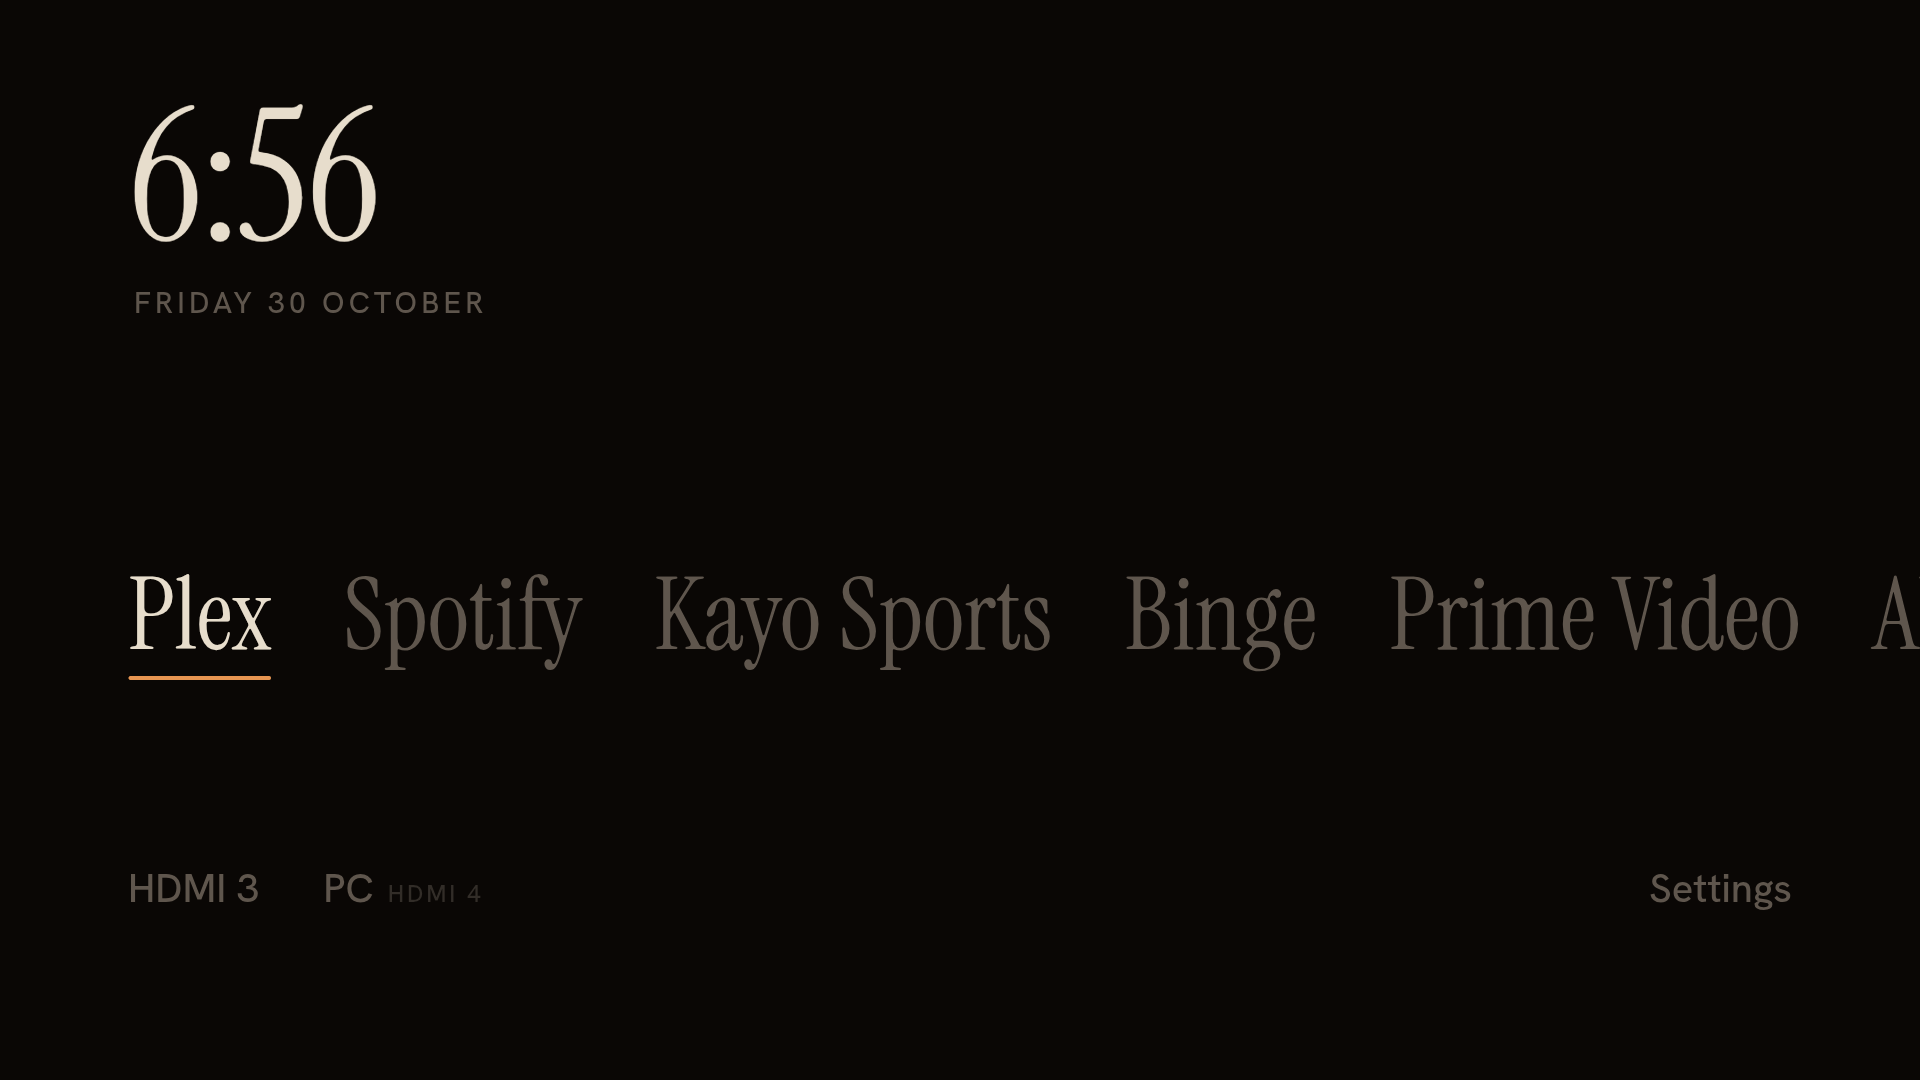
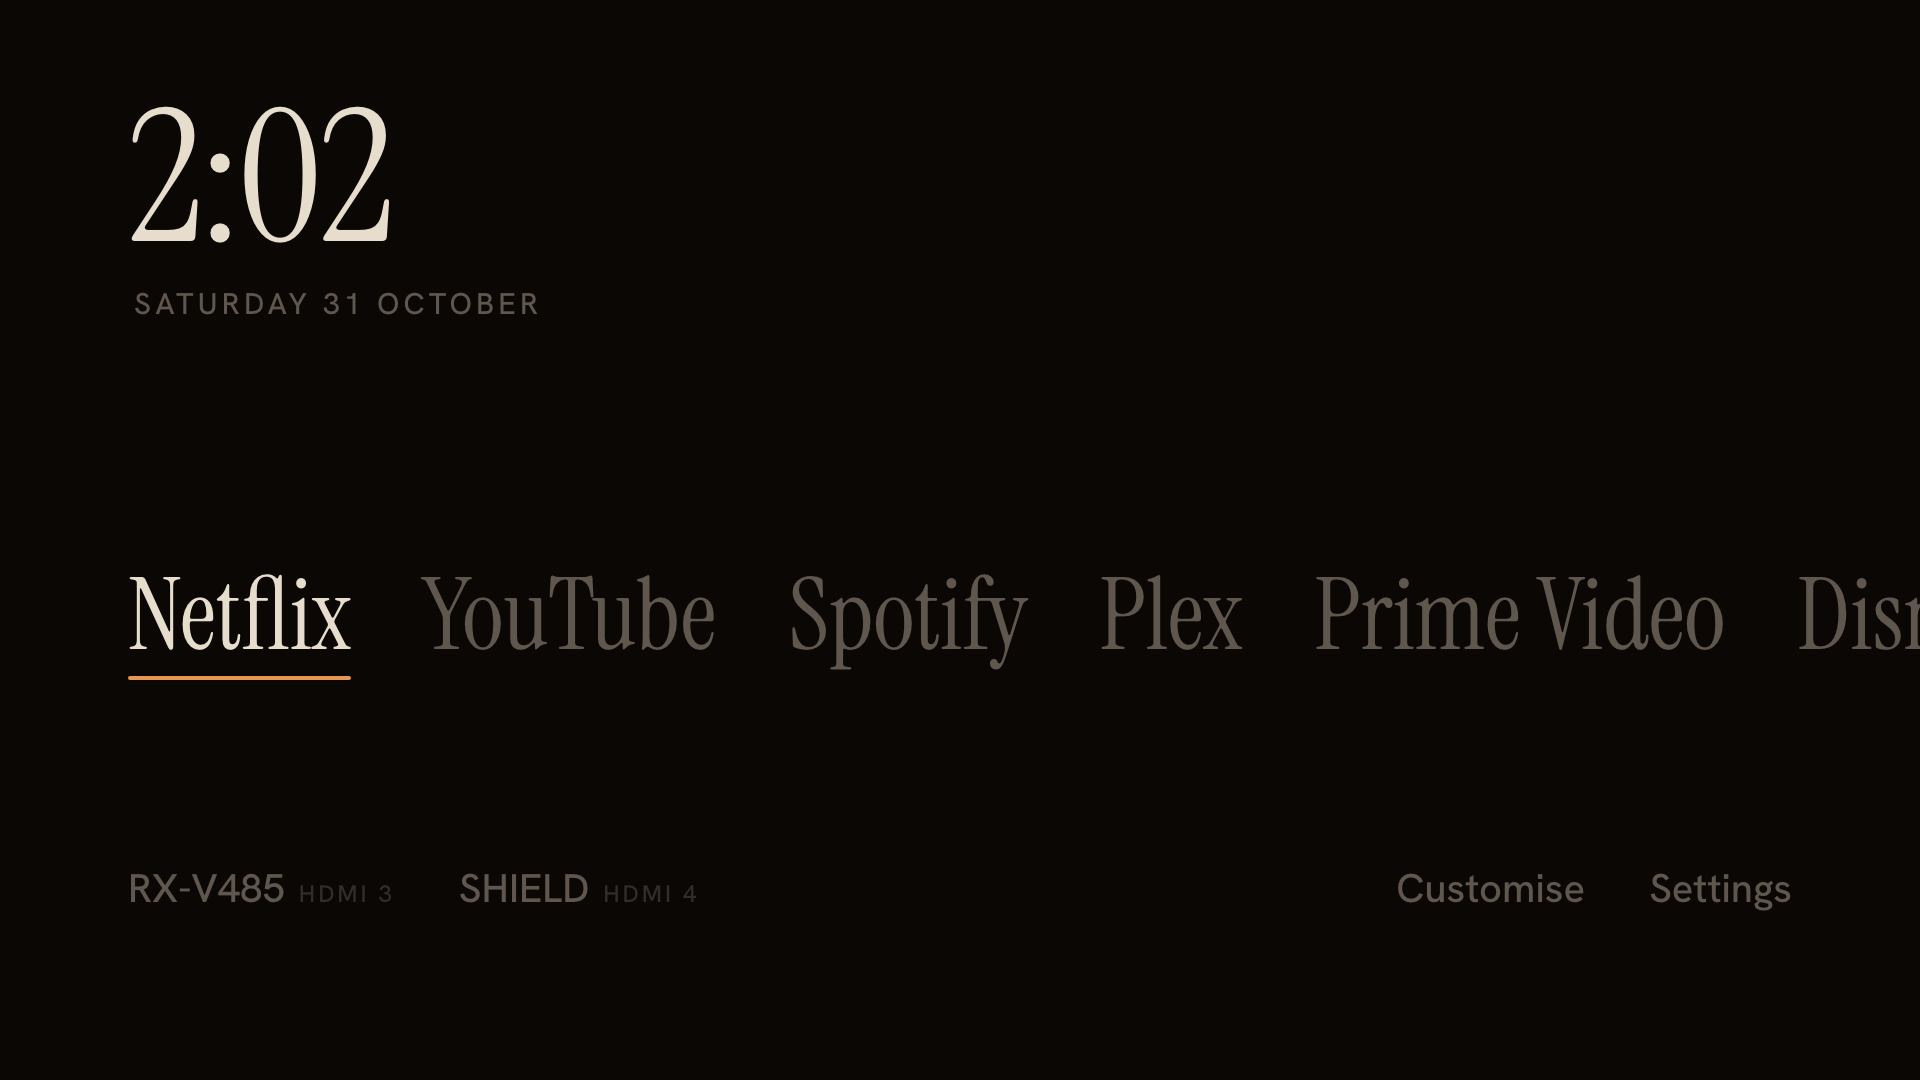
docs: refresh screenshots for 1.2.0 with a generic app row

diff --git a/docs/images/social-hero-mobile.html b/docs/images/social-hero-mobile.html
@@ -25,4 +25,4 @@ p{font-size:18px;line-height:1.5;color:var(--dim)} p b{color:var(--ink);font-wei
 <svg viewBox="0 0 16 16" fill="none" stroke="currentColor" stroke-width="1.4"><path d="M2 6.5a9 9 0 0 1 12 0M4.3 9a5.6 5.6 0 0 1 7.4 0M6.6 11.5a2.2 2.2 0 0 1 2.8 0"/></svg>
 <svg viewBox="0 0 22 12" style="width:19px" fill="none" stroke="currentColor" stroke-width="1"><rect x=".5" y=".5" width="18" height="11" rx="3"/><rect x="2.5" y="2.5" width="11" height="7" rx="1.5" fill="currentColor"/><path d="M20.5 4v4" stroke-width="1.5"/></svg>
 <span class="tv"><svg viewBox="0 0 16 16" fill="none" stroke="currentColor" stroke-width="1.4"><rect x="1.5" y="2.5" width="13" height="8.5" rx="1.5"/><path d="M5 13.5h6"/></svg></span>
-<span>Fri 30 Oct&nbsp;&nbsp;6:56 pm</span></div><div class="glow" style="left:0;top:340px;width:520px;height:340px"></div><div style="position:absolute;left:44px;right:44px;top:84px"><div class="brand"><i></i>Blacklevel</div><h1 style="font-size:64px;margin-top:14px">Take your Sony TV back.<br><em>It's just a TV.</em></h1><p style="margin-top:20px;font-size:17px;max-width:600px"><b>A quiet home screen</b> for BRAVIA Google TV, and <b>a Mac menu bar remote.</b> No ads, no accounts, no cloud.</p></div><div class="tvset" style="left:-24px;width:540px;top:370px"><div class="screen"><img src="home-apps.png"></div><div class="stand"></div></div><div class="remote" style="right:30px;width:250px;top:450px;height:430px;-webkit-mask-image:linear-gradient(#000 70%,transparent)"><img src="remote-menu.png" style=""></div></body></html>
+<span>Sat 31 Oct&nbsp;&nbsp;2:02 pm</span></div><div class="glow" style="left:0;top:340px;width:520px;height:340px"></div><div style="position:absolute;left:44px;right:44px;top:84px"><div class="brand"><i></i>Blacklevel</div><h1 style="font-size:64px;margin-top:14px">Take your Sony TV back.<br><em>It's just a TV.</em></h1><p style="margin-top:20px;font-size:17px;max-width:600px"><b>A quiet home screen</b> for BRAVIA Google TV, and <b>a Mac menu bar remote.</b> No ads, no accounts, no cloud.</p></div><div class="tvset" style="left:-24px;width:540px;top:370px"><div class="screen"><img src="home-apps.png"></div><div class="stand"></div></div><div class="remote" style="right:30px;width:250px;top:450px;height:430px;-webkit-mask-image:linear-gradient(#000 70%,transparent)"><img src="remote-menu.png" style=""></div></body></html>

diff --git a/docs/images/social-hero-story.html b/docs/images/social-hero-story.html
@@ -25,4 +25,4 @@ p{font-size:18px;line-height:1.5;color:var(--dim)} p b{color:var(--ink);font-wei
 <svg viewBox="0 0 16 16" fill="none" stroke="currentColor" stroke-width="1.4"><path d="M2 6.5a9 9 0 0 1 12 0M4.3 9a5.6 5.6 0 0 1 7.4 0M6.6 11.5a2.2 2.2 0 0 1 2.8 0"/></svg>
 <svg viewBox="0 0 22 12" style="width:19px" fill="none" stroke="currentColor" stroke-width="1"><rect x=".5" y=".5" width="18" height="11" rx="3"/><rect x="2.5" y="2.5" width="11" height="7" rx="1.5" fill="currentColor"/><path d="M20.5 4v4" stroke-width="1.5"/></svg>
 <span class="tv"><svg viewBox="0 0 16 16" fill="none" stroke="currentColor" stroke-width="1.4"><rect x="1.5" y="2.5" width="13" height="8.5" rx="1.5"/><path d="M5 13.5h6"/></svg></span>
-<span>Fri 30 Oct&nbsp;&nbsp;6:56 pm</span></div><div class="glow" style="left:0;top:560px;width:560px;height:380px"></div><div style="position:absolute;left:44px;right:44px;top:170px"><div class="brand"><i></i>Blacklevel</div><h1 style="font-size:74px;margin-top:16px">Take your Sony TV back.<br><em>It's just a TV.</em></h1><p style="margin-top:22px"><b>A quiet home screen</b> for BRAVIA Google TV, and <b>a Mac menu bar remote.</b> No ads, no accounts, no cloud.</p></div><div class="tvset" style="left:-24px;width:600px;top:600px"><div class="screen"><img src="home-apps.png"></div><div class="stand"></div></div><div class="remote" style="right:32px;width:280px;top:720px;height:450px;-webkit-mask-image:linear-gradient(#000 70%,transparent)"><img src="remote-menu.png" style=""></div></body></html>
+<span>Sat 31 Oct&nbsp;&nbsp;2:02 pm</span></div><div class="glow" style="left:0;top:560px;width:560px;height:380px"></div><div style="position:absolute;left:44px;right:44px;top:170px"><div class="brand"><i></i>Blacklevel</div><h1 style="font-size:74px;margin-top:16px">Take your Sony TV back.<br><em>It's just a TV.</em></h1><p style="margin-top:22px"><b>A quiet home screen</b> for BRAVIA Google TV, and <b>a Mac menu bar remote.</b> No ads, no accounts, no cloud.</p></div><div class="tvset" style="left:-24px;width:600px;top:600px"><div class="screen"><img src="home-apps.png"></div><div class="stand"></div></div><div class="remote" style="right:32px;width:280px;top:720px;height:450px;-webkit-mask-image:linear-gradient(#000 70%,transparent)"><img src="remote-menu.png" style=""></div></body></html>

diff --git a/docs/images/social-hero.html b/docs/images/social-hero.html
@@ -35,7 +35,7 @@ h1 em{font-style:normal;color:var(--dim)}
   <svg class="ico" viewBox="0 0 16 16" fill="none" stroke="currentColor" stroke-width="1.4"><path d="M2 6.5a9 9 0 0 1 12 0M4.3 9a5.6 5.6 0 0 1 7.4 0M6.6 11.5a2.2 2.2 0 0 1 2.8 0"/></svg>
   <svg class="ico" viewBox="0 0 22 12" style="width:24px" fill="none" stroke="currentColor" stroke-width="1"><rect x=".5" y=".5" width="18" height="11" rx="3"/><rect x="2.5" y="2.5" width="11" height="7" rx="1.5" fill="currentColor"/><path d="M20.5 4v4" stroke-width="1.5"/></svg>
   <span class="tv"><svg viewBox="0 0 16 16" fill="none" stroke="currentColor" stroke-width="1.4"><rect x="1.5" y="2.5" width="13" height="8.5" rx="1.5"/><path d="M5 13.5h6"/></svg></span>
-  <span>Fri 30 Oct&nbsp;&nbsp;6:56 pm</span>
+  <span>Sat 31 Oct&nbsp;&nbsp;2:02 pm</span>
 </div>
 
 <div class="copy">
